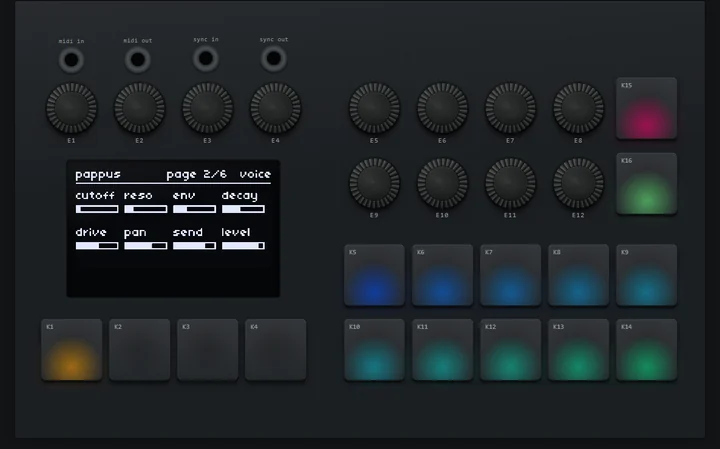
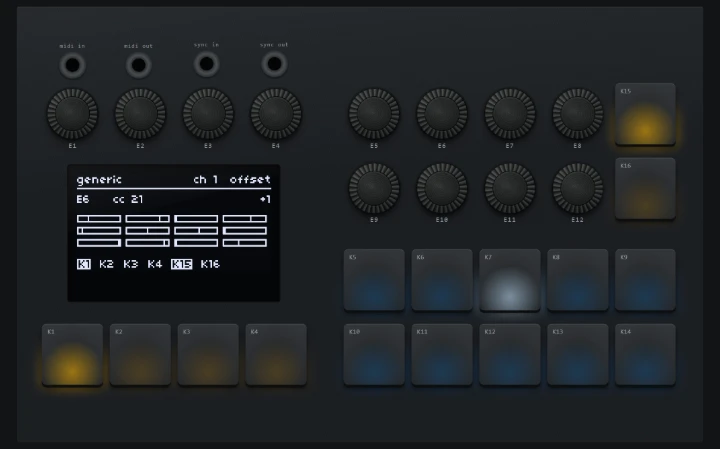
greenhouse: achene's card and preview play generic.lua, not a pappus page
The welcome page's achene picture and the preview page's frames showed a
pappus page recorded from the firmware. Both now come from achene's
tools/manual/front.mjs: generic.lua's screen and LEDs, as the firmware
mirrors them.

diff --git a/tools/achene-preview.html b/tools/achene-preview.html
@@ -5,8 +5,9 @@
         <meta name="viewport" content="width=device-width, initial-scale=1" />
         <title>achene preview</title>
         <!-- Development page (not published): the achene panel without a device.
-             It plays frames recorded from the firmware (achene-fixture.txt:
-             ^^achled/^^achscr lines, as ach_mirror(true) sends them) and lists
+             It plays the frames in achene-fixture.txt (^^achled/^^achscr lines,
+             as ach_mirror(true) sends them: generic.lua's screen and LEDs, made
+             by achene's tools/manual/front.mjs) and lists
              the calls the panel would send. Serve the repo (make serve) and open
              /tools/achene-preview.html. -->
         <link rel="stylesheet" href="../achene.css" />
